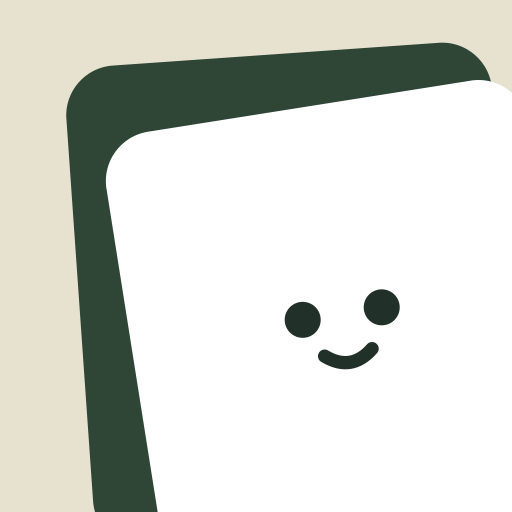
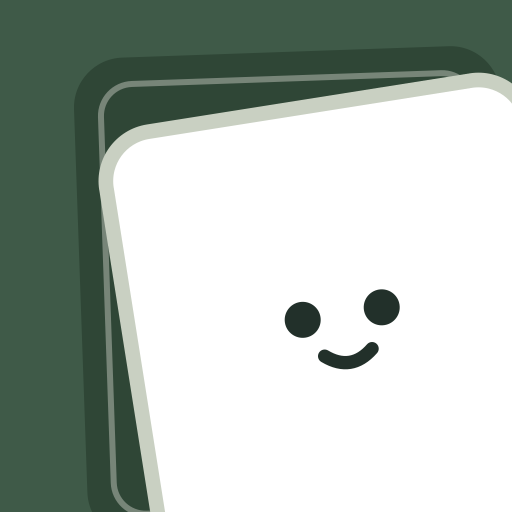
Set Ace on the app's green, stepping out of the deck
One card back behind him now, darker green with the light rule the backs
in the card draw have, on the app's green. Ace keeps his border and his
9-degree lean from History. The tab icon follows, without the printed
rule, which would be a smudge at 16px.

diff --git a/stand-up-handoff.md b/stand-up-handoff.md
@@ -110,11 +110,11 @@ Every element showing a clock value uses `font-variant-numeric: tabular-nums` so
 
 ### Logo
 
-Ace peeking in from the lower right: Ace himself — the white card with his dot eyes and small smile (§3) — leaning back 9 degrees as he does in empty History, in front of a dark green `#2F4636` card fanned at 4, spilling off the edge of a cream `#E7E1CF` ground. Cute by scale and crop rather than by detail, and the same character the app shows in empty History and on Review, so the icon and the app introduce each other. It follows Ace's rules: a white card with dark features, no limbs.
+Ace stepping out of the deck, peeking in from the lower right: Ace himself — the white card with his grey-green border, dot eyes and small smile (§3) — leaning back 9 degrees as he does in empty History, in front of a card back at 2 degrees (darker green `#2F4636` with a light rule printed inside, like the backs in the card draw), on the app's green `--accent-strong`. Cute by scale and crop rather than by detail, and the same character the app shows, so the icon and the app introduce each other. It follows Ace's rules: a white card with dark features, no limbs.
 
 The source is `design/logo/mark.svg`, on a 1536 grid. Every PNG in `public/` is drawn from it by `sh design/logo/export.sh`, using only macOS's own renderer: full-bleed squares for iOS and Android, which round the corners themselves. The maskable icon uses the mark unscaled — the face sits 23% from centre, inside the 40% circle Android keeps, and the cards are meant to be cropped.
 
-`public/favicon.svg` is kept by hand. At 16px the icon's face would be half a pixel wide, so the tab version draws the same composition on a 64 grid with the face about 2.5 times larger. Clear at 32px and still there at 16px — dark features on white hold up far better than they did on the earlier sage card.
+`public/favicon.svg` is kept by hand. At 16px the icon's face would be half a pixel wide, so the tab version draws the same composition on a 64 grid with the face about 2.5 times larger. Clear at 32px and still there at 16px. The card back's printed rule is left out of the tab version, where it would be a sub-pixel smudge.
 
 The header wordmark stays as text.
 
